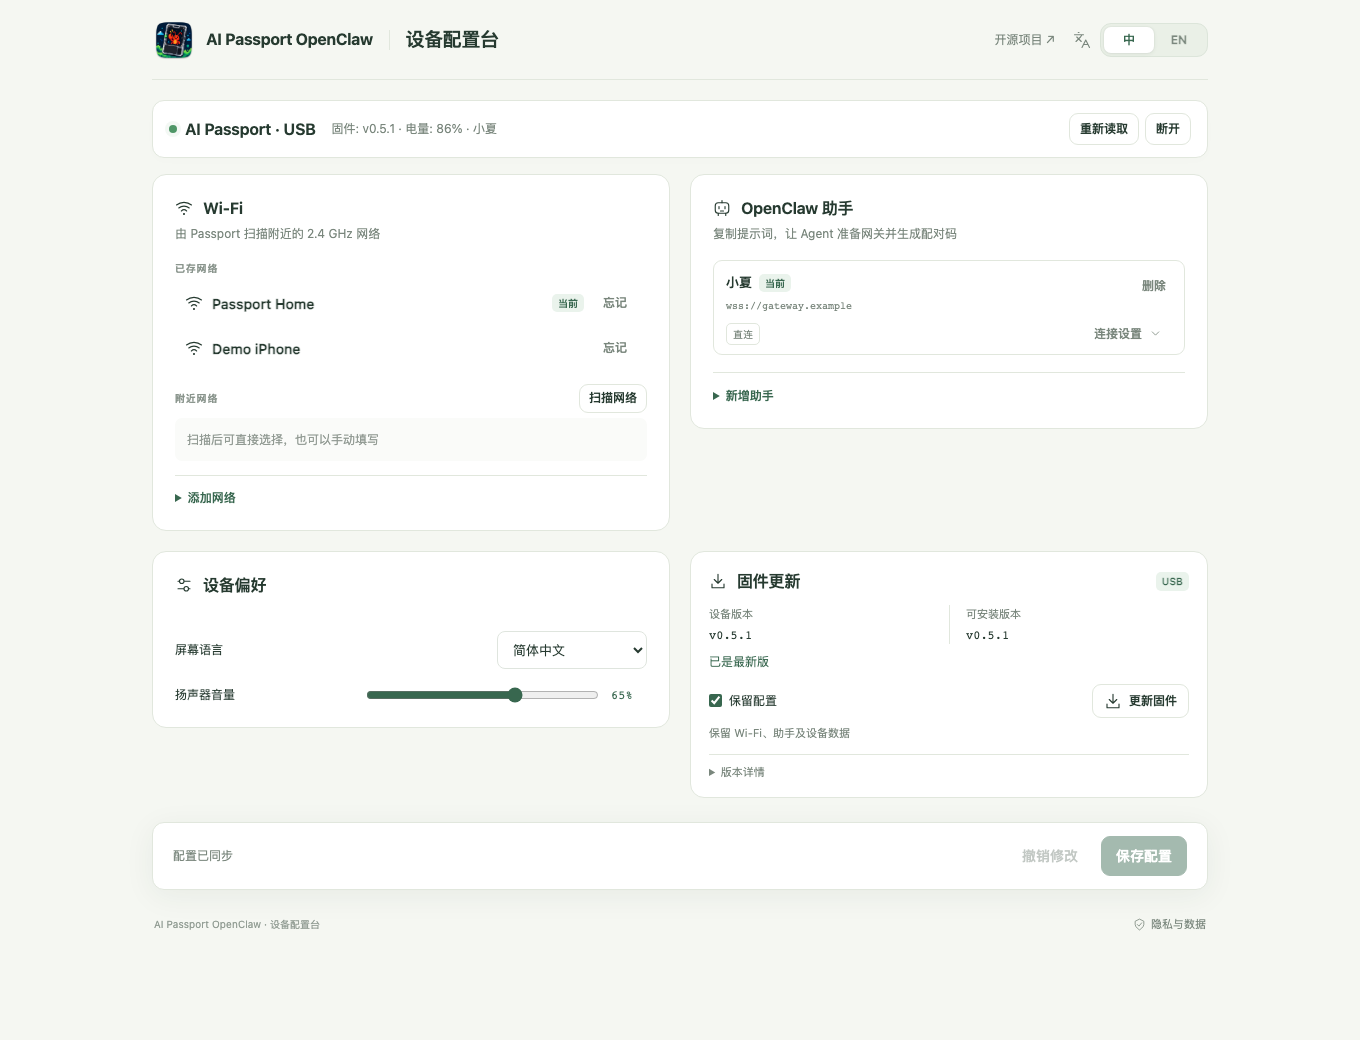
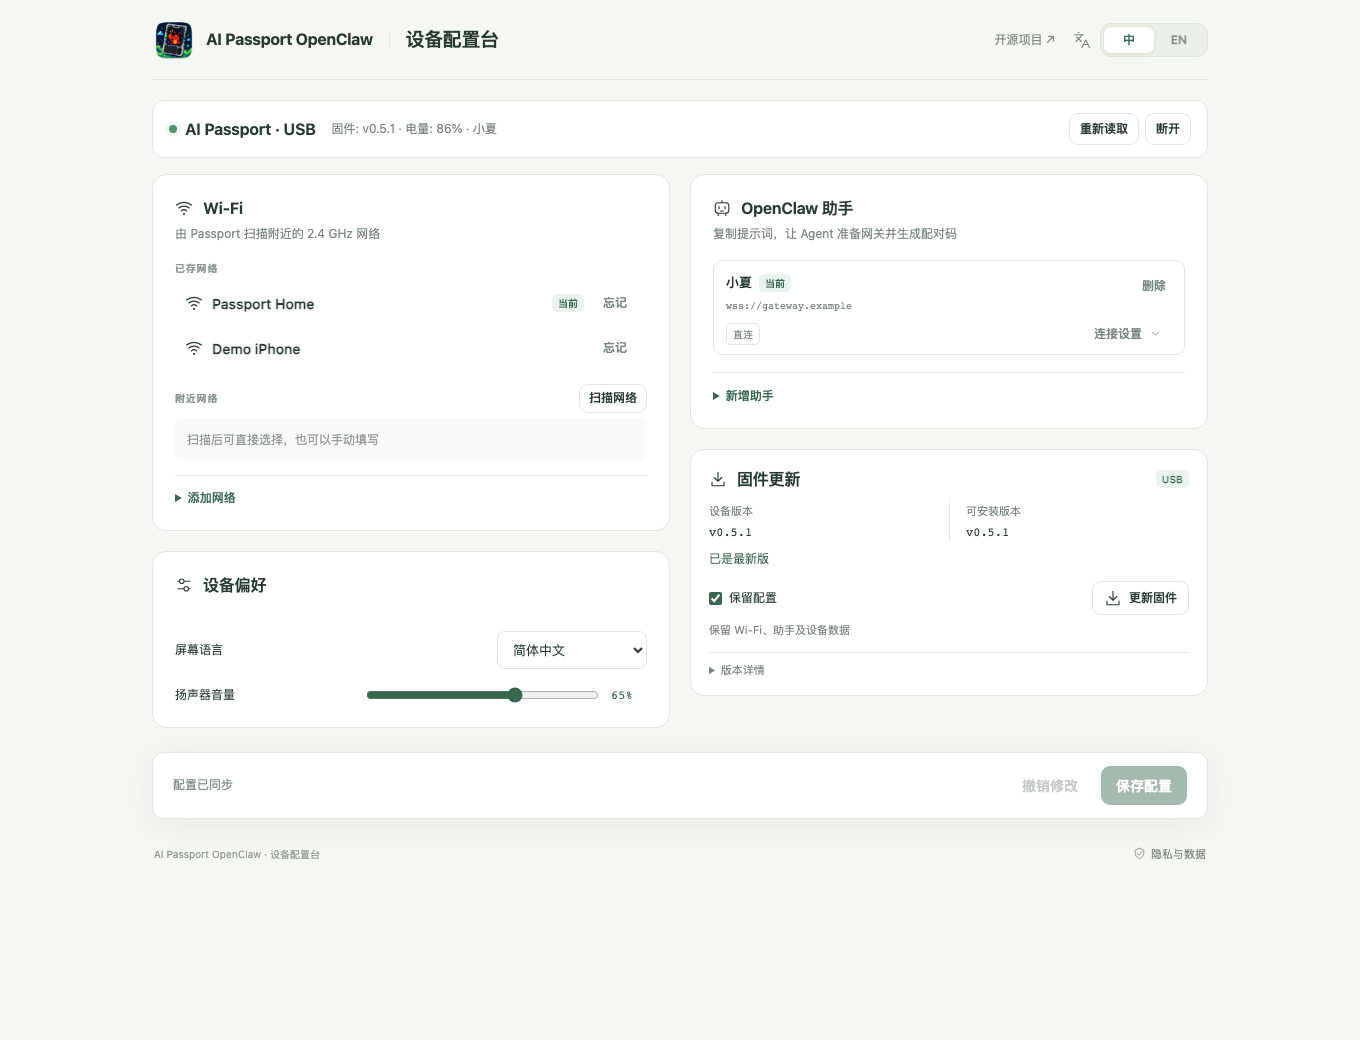
fix(web): tighten desktop layout and link Bluefy installation

diff --git a/web/src/main.js b/web/src/main.js
@@ -29,6 +29,8 @@ const icons = {
 const icon = name => `<svg class="icon" viewBox="0 0 24 24" fill="none" stroke="currentColor" stroke-width="1.5" stroke-linecap="round" stroke-linejoin="round" aria-hidden="true">${icons[name] || icons.agent}</svg>`;
 const escape = value => String(value ?? '').replace(/[&<>"']/g, character => ({ '&': '&amp;', '<': '&lt;', '>': '&gt;', '"': '&quot;', "'": '&#39;' })[character]);
 const root = document.querySelector('#app');
+const desktopLayout = window.matchMedia('(min-width: 801px)');
+const bluefyStoreURL = 'https://apps.apple.com/app/bluefy-web-ble-browser/id1492822055';
 let session = null;
 let transportKind = '';
 let snapshot = null;
@@ -150,6 +152,22 @@ function connectionButton(kind, supported) {
   return `<button id="connect-${kind}" ${usb ? 'class="primary"' : ''} ${hint ? `aria-describedby="${hint}"` : ''} ${busy || !supported ? 'disabled' : ''}>${icon(usb ? 'usb' : 'bluetooth')}${text(usb ? 'usb' : 'bluetooth')}</button>`;
 }
 
+function layoutCards() {
+  const grid = root.querySelector('.grid');
+  const focused = document.activeElement;
+  const cards = ['wifi', 'agent', 'preferences', 'firmware'].map(name => root.querySelector(`#${name}-card`));
+  if (desktopLayout.matches) {
+    const columns = [[cards[0], cards[2]], [cards[1], cards[3]]].map(items => {
+      const column = document.createElement('div');
+      column.className = 'card-column';
+      column.append(...items);
+      return column;
+    });
+    grid.replaceChildren(...columns);
+  } else grid.replaceChildren(...cards);
+  if (grid.contains(focused)) focused.focus({ preventScroll: true });
+}
+
 function render() {
   const linked = connected();
   const preferencesDisabled = busy || !linked || !snapshot;
@@ -166,7 +184,7 @@ function render() {
   const firmwareConnectionHint = !window.isSecureContext ? '' : !supportedSerial() ? 'unsupportedUSB' : linked && transportKind !== 'usb' ? 'usbOnly' : '';
   const firmwareNote = keepFirmwareSettings ? !usbReady && !firmwareConnectionHint ? 'updateNeedsDevice' : 'flashNote' : 'fullNote';
   const flashLabel = text(keepFirmwareSettings ? 'application' : 'full');
-  const connectionSupport = !linked && window.isSecureContext ? `${!supportedSerial() && !supportedBLE() ? `<p id="usb-support">${text('unsupportedUSB')}</p>` : ''}${!supportedBLE() ? `<p id="ble-support">${text('unsupportedBLE')}</p>` : ''}` : '';
+  const connectionSupport = !linked && window.isSecureContext ? `${!supportedSerial() && !supportedBLE() ? `<p id="usb-support">${text('unsupportedUSB')}</p>` : ''}${!supportedBLE() ? `<div id="ble-support"><p>${text('unsupportedBLE')}</p><a class="bluefy-install" href="${bluefyStoreURL}" target="_blank" rel="noopener noreferrer">${text('installBluefy')}${icon('external')}</a><p>${text('bluefyNext')}</p></div>` : ''}` : '';
   root.innerHTML = `<div class="shell">
     <header><div class="header-identity"><a class="brand" href="./" aria-label="AI Passport OpenClaw"><img src="${brandLogo}" alt="" width="44" height="44"><span class="brand-name">AI Passport OpenClaw</span></a><span class="header-divider" aria-hidden="true"></span><h1>${text('title')}</h1></div><nav><a class="source-link" href="https://github.com/vangie/ai-passport-openclaw" target="_blank" rel="noreferrer" aria-label="${text('github')}"><span>${text('github')} ↗</span>${icon('external')}</a><fieldset class="language-switch" aria-label="${text('interfaceLanguage')}">${icon('language')}<div class="language-options" data-selected="${language}"><span class="language-thumb" aria-hidden="true"></span><label for="language-zh"><input id="language-zh" type="radio" name="interface-language" value="zh" aria-label="${text('chinese')}" ${language === 'zh' ? 'checked' : ''}><span lang="zh-CN">中</span></label><label for="language-en"><input id="language-en" type="radio" name="interface-language" value="en" aria-label="English" ${language === 'en' ? 'checked' : ''}><span lang="en">EN</span></label></div></fieldset></nav></header>
     <section class="connection ${linked ? 'is-connected' : ''}"><div class="connection-info"><div class="connection-title"><span class="dot ${linked ? 'on' : ''}"></span><h2>${linked ? escape(connectionLabel) : text('connectTitle')}</h2></div>${linked ? `<p class="subtle">${text('firmware')}: ${escape(deviceVersion)} · ${text('battery')}: ${snapshot?.device.battery >= 0 ? snapshot.device.battery + '%' : '—'}${currentAgent ? ` · ${escape(currentAgent.name)}` : ''}</p>` : ''}${feedback('connection')}</div><div class="actions connection-actions">${linked ? `<button id="refresh" ${busy ? 'disabled' : ''}>${text('refresh')}</button><button id="disconnect" ${busy ? 'disabled' : ''}>${text('disconnect')}</button>` : connectionButton('usb', supportedSerial()) + connectionButton('ble', supportedBLE())}</div>${connectionSupport ? `<div class="connection-support">${connectionSupport}</div>` : ''}</section>
@@ -200,6 +218,7 @@ function render() {
     <dialog id="privacy-dialog" aria-labelledby="privacy-title" aria-describedby="privacy-intro"><h2 id="privacy-title">${text('privacyTitle')}</h2><p id="privacy-intro">${text('privacyIntro')}</p><dl class="privacy-facts"><div><dt>${text('privacyTransferTitle')}</dt><dd>${text('privacyTransfer')}</dd></div><div><dt>${text('privacyStorageTitle')}</dt><dd>${text('privacyStorage')}</dd></div><div><dt>${text('privacyServicesTitle')}</dt><dd>${text('privacyServices')}</dd></div></dl><p class="hint privacy-hosting">${text('privacyHosting')}</p><div class="actions"><button id="privacy-close" autofocus>${text('privacyClose')}</button></div></dialog>
     <dialog id="confirm-dialog"><p></p><div class="actions"><button id="dialog-cancel">${text('dialogCancel')}</button><button id="dialog-confirm" class="primary">${text('dialogConfirm')}</button></div></dialog>
   </div>`;
+  layoutCards();
   renderNearby();
   updateSave();
   updatePromptFeedback();
@@ -427,6 +446,7 @@ function bind() {
 }
 
 window.addEventListener('beforeunload', event => { if (dirty.size || busy) { event.preventDefault(); event.returnValue = ''; } });
+desktopLayout.addEventListener('change', layoutCards);
 setLanguage(language);
 render();
 getManifest().then(value => { manifest = value; }).catch(() => {}).finally(() => {

diff --git a/web/src/i18n.js b/web/src/i18n.js
@@ -1,5 +1,6 @@
 const messages = {
   zh: {
+    installBluefy: '在 App Store 获取 Bluefy', bluefyNext: '安装后，在 Bluefy 中打开本页，再连接蓝牙。',
     firmwareDesktop: '固件更新请在电脑上通过 USB 完成。',
     connectionSettings: '连接设置', proxyPasswordHint: '留空沿用设备中已保存的代理密码', routeSaveHint: '仅修改此助手，点击「保存配置」后生效。', confirmRouteSwitch: '放弃当前助手连接方式的未保存修改，转去编辑另一助手？其他配置不受影响。',
     addNetwork: '添加网络', editNetwork: '编辑网络', emptyNetworks: '尚未保存网络',
@@ -41,6 +42,7 @@ const messages = {
     dialogCancel: '取消', dialogConfirm: '确认', battery: '电量', firmware: '固件', reconnect: '连接后可读取和保存', scanDone: '扫描完成', deviceError: '设备未完成此操作，输入内容仍保留。',
   },
   en: {
+    installBluefy: 'Get Bluefy on the App Store', bluefyNext: 'After installing, open this page in Bluefy to connect via Bluetooth.',
     firmwareDesktop: 'Update firmware via USB on a computer.',
     hotspotHelp: 'Can’t find your iPhone hotspot?',
     connectionSettings: 'Connection settings', proxyPasswordHint: 'Leave blank to keep the saved proxy password', routeSaveHint: 'Applies only to this agent after you choose Save settings.', confirmRouteSwitch: 'Discard unsaved connection changes for this agent and edit another? Other settings are kept.',

diff --git a/web/src/style.css b/web/src/style.css
@@ -56,6 +56,8 @@ p { margin: 0; }
 .connection:not(.is-connected) .connection-actions { grid-column: 2; grid-row: 1; flex-wrap: nowrap; }
 .connection:not(.is-connected) .feedback, .connection-support { grid-column: 1 / -1; margin: 0 0 0 16px; }
 .connection-support { color: var(--muted); font-size: 11px; line-height: 1.6; }
+.bluefy-install { display: inline-flex; align-items: center; gap: 6px; margin: 4px 0; color: var(--green); font-size: 12px; font-weight: 600; }
+.bluefy-install .icon { width: 14px; height: 14px; }
 .connection .connection-actions button { white-space: nowrap; }
 .environment { padding: 0 3px 16px; }
 .environment p { color: var(--muted); font-size: 11px; }
@@ -65,6 +67,7 @@ p { margin: 0; }
 #bluetooth-help p { margin-top: 8px; }
 #bluetooth-help button { margin-top: 10px; }
 .grid { display: grid; grid-template-columns: minmax(0, 1fr) minmax(0, 1fr); align-items: start; gap: 20px; }
+.card-column { display: flex; flex-direction: column; gap: 20px; min-width: 0; }
 .card { min-width: 0; background: white; border: 1px solid var(--line); border-radius: 14px; overflow: hidden; }
 .card-head { padding: 20px 22px 16px; display: flex; justify-content: space-between; align-items: center; gap: 12px; }
 .card-head .subtle { margin-top: 3px; }

diff --git a/tests/test_public_audit.py b/tests/test_public_audit.py
@@ -34,6 +34,8 @@ class PublicAuditTests(unittest.TestCase):
         self.assertTrue(audit.findings('web/public/settings.json', '10.23.45.67'))
         self.assertEqual(audit.findings('web/src/main.js', 'wss://gateway.example'), [])
         self.assertEqual(audit.findings('web/dist/index.html', 'http://www.w3.org'), [])
+        self.assertEqual(audit.findings('web/src/main.js', 'https://apps.apple.com/app/bluefy-web-ble-browser/id1492822055'), [])
+        self.assertTrue(audit.findings('web/src/main.js', 'https://apps.apple.com.customer.net/pair'))
 
 
 if __name__ == '__main__':

diff --git a/tools/check_public.py b/tools/check_public.py
@@ -15,7 +15,7 @@ PATTERNS = {
     'Apple team identifier': re.compile(r'DEVELOPMENT_TEAM\s*[:=]\s*["\']?[A-Z0-9]{10}\b'),
     'deployment hostname': re.compile(r'\b[A-Za-z0-9-]+\.(?:online|local|trycloudflare\.com)\b', re.I),
 }
-SERVICE_HOSTS = {'github.com', 'docs.openclaw.ai', 'registry.npmjs.org', 'www.apple.com', 'www.w3.org'}
+SERVICE_HOSTS = {'github.com', 'docs.openclaw.ai', 'registry.npmjs.org', 'www.apple.com', 'apps.apple.com', 'www.w3.org'}
 
 
 def findings(name, data):

diff --git a/README.md b/README.md
@@ -46,7 +46,7 @@ local Python or command-line flasher required.
 | --- | --- | --- |
 | Computer · Chrome or Edge | USB | Install/update firmware, configure Wi-Fi and assistants, adjust language and volume |
 | Computer · a Web Bluetooth browser | Bluetooth | Read and save settings; firmware updates still need USB |
-| iPhone · Bluefy | Bluetooth | Add Wi-Fi or a personal hotspot and edit assistant settings; no USB flashing |
+| iPhone · [Bluefy](https://apps.apple.com/app/bluefy-web-ble-browser/id1492822055) | Bluetooth | Add Wi-Fi or a personal hotspot and edit assistant settings; no USB flashing |
 
 Bluetooth support varies by browser and OS. Safari and Chrome on iPhone do not
 provide the required Bluetooth API. Bluefy was tested by the maintainer; other

diff --git a/README.zh_CN.md b/README.zh_CN.md
@@ -42,7 +42,7 @@
 | --- | --- | --- |
 | 电脑 · Chrome 或 Edge | USB | 安装／更新固件，配置 Wi-Fi 和助手，调整语言与音量 |
 | 电脑 · 支持 Web Bluetooth 的浏览器 | 蓝牙 | 读取与保存配置；更新固件仍需 USB |
-| iPhone · Bluefy | 蓝牙 | 添加 Wi-Fi／个人热点、修改助手配置；不支持 USB 刷机 |
+| iPhone · [Bluefy](https://apps.apple.com/app/bluefy-web-ble-browser/id1492822055) | 蓝牙 | 添加 Wi-Fi／个人热点、修改助手配置；不支持 USB 刷机 |
 
 蓝牙能力受浏览器和系统限制。iPhone 的 Safari 与 Chrome 不提供所需蓝牙接口。
 维护者已使用 Bluefy 完成配置，其他浏览器／系统组合仍需实机验证。

diff --git a/docs/configuration.zh_CN.md b/docs/configuration.zh_CN.md
@@ -3,7 +3,8 @@
 # 配置与日常使用
 
 使用[配置网页](https://ai-passport-openclaw.codelife.me/)。电脑 Chrome／Edge 支持 USB 配置和刷机；
-兼容 Web Bluetooth 的浏览器支持无线配置。iPhone 请使用 Bluefy，而非 Safari／Chrome。
+兼容 Web Bluetooth 的浏览器支持无线配置。iPhone 请[在 App Store 获取 Bluefy](https://apps.apple.com/app/bluefy-web-ble-browser/id1492822055)，
+安装后在 Bluefy 中打开配置网页，而非 Safari／Chrome。网页的蓝牙兼容提示也提供商店直达入口。
 更新固件仍需电脑与 USB，参见[兼容性说明](web.zh_CN.md)。
 
 ## 让 OpenClaw 完成网关接入准备

diff --git a/docs/configuration.md b/docs/configuration.md
@@ -4,7 +4,8 @@
 
 Use the [web studio](https://ai-passport-openclaw.codelife.me/). Desktop Chrome/Edge
 supports USB configuration and firmware installation; compatible Web Bluetooth
-browsers support wireless settings. On iPhone use Bluefy, not Safari/Chrome.
+browsers support wireless settings. On iPhone, [get Bluefy from the App Store](https://apps.apple.com/app/bluefy-web-ble-browser/id1492822055)
+and open the configuration site inside it, not Safari/Chrome. The site's Bluetooth compatibility hint links directly to this listing.
 Firmware flashing still needs a computer and USB. See [browser compatibility](web.md).
 
 ## Let OpenClaw prepare the gateway
